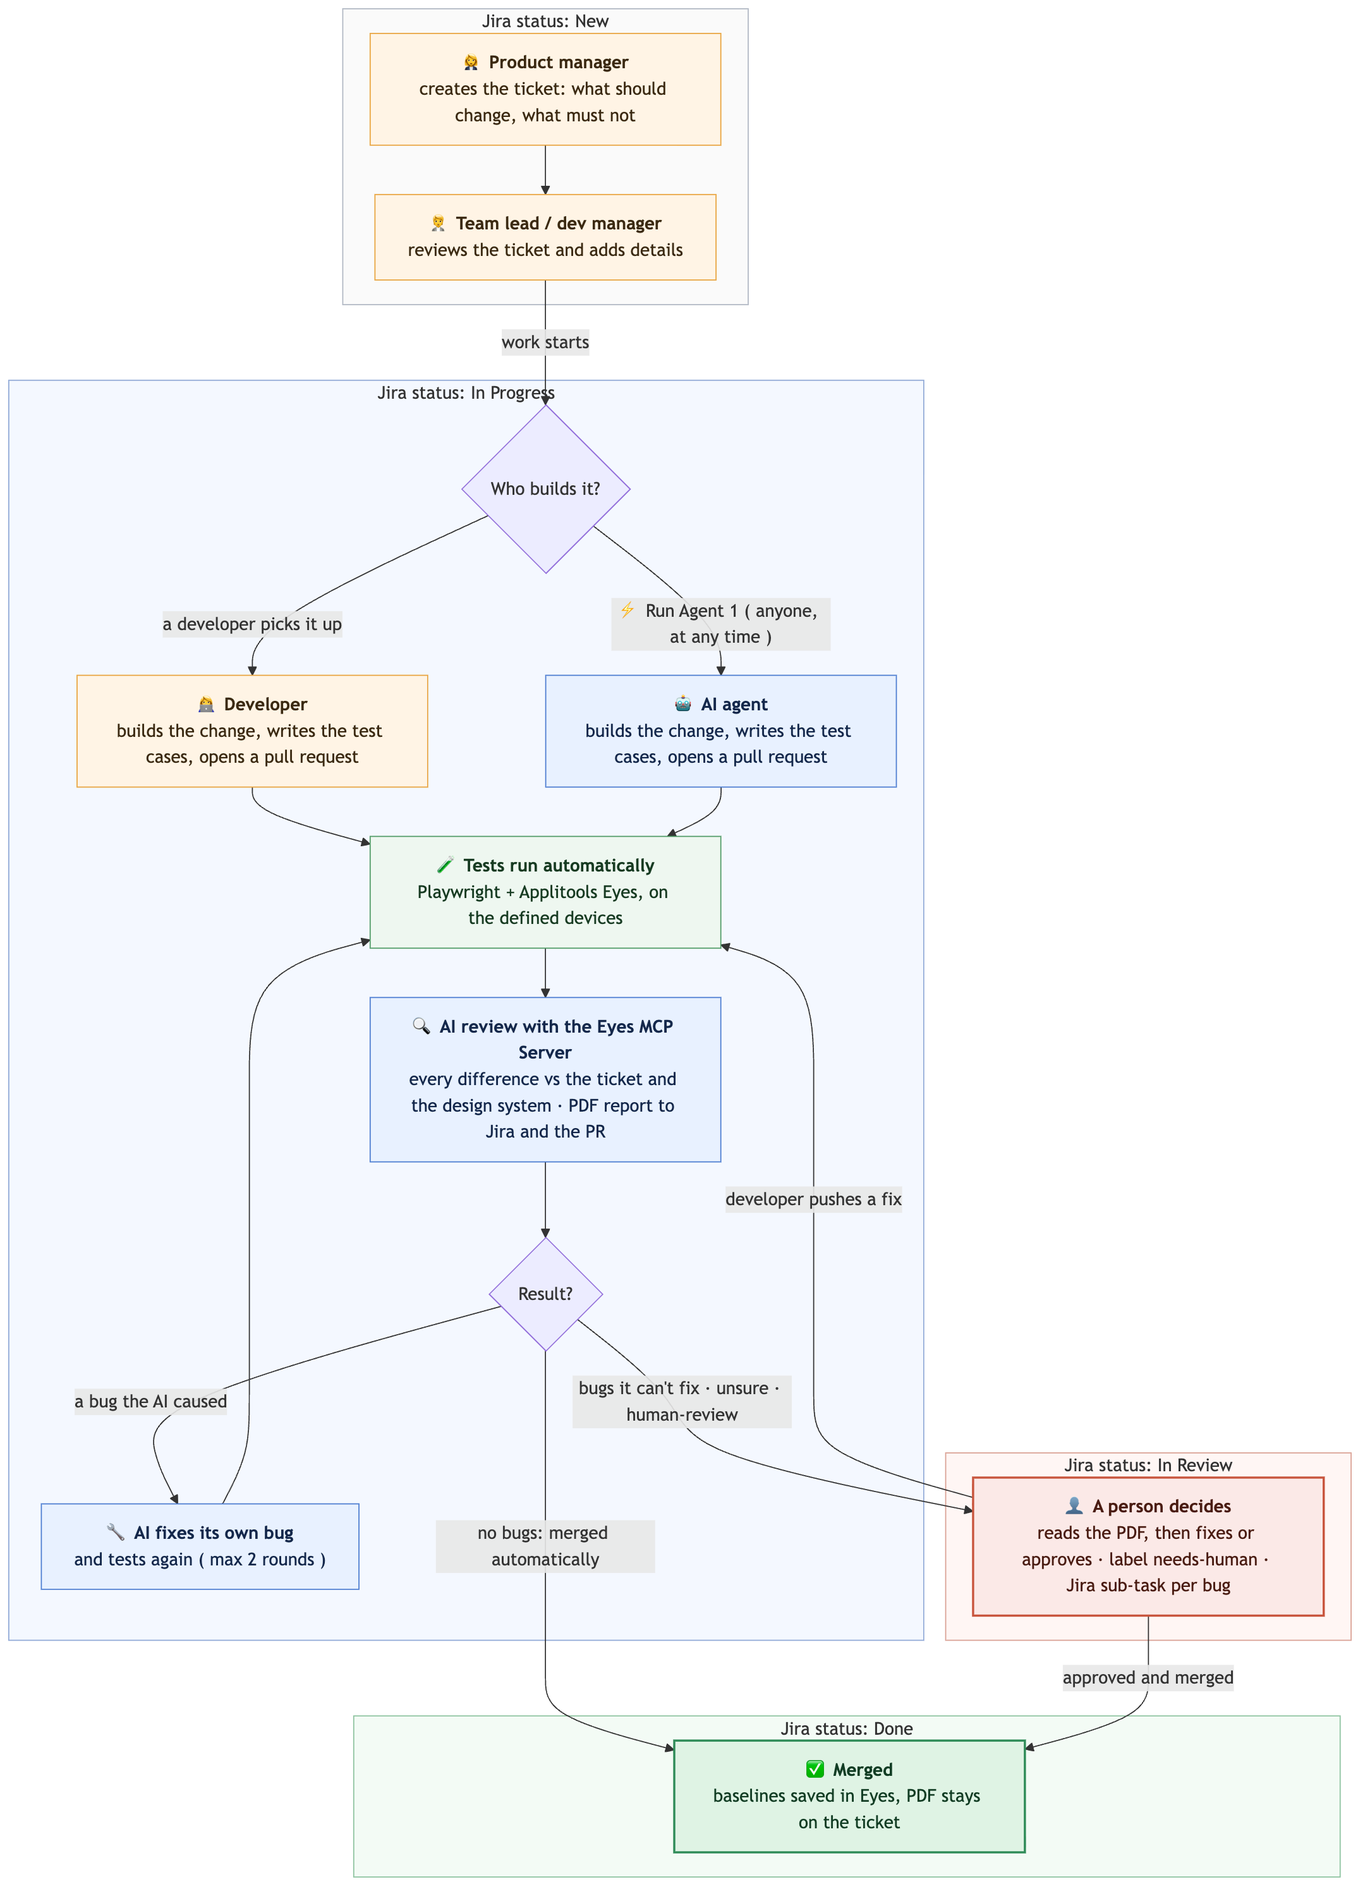
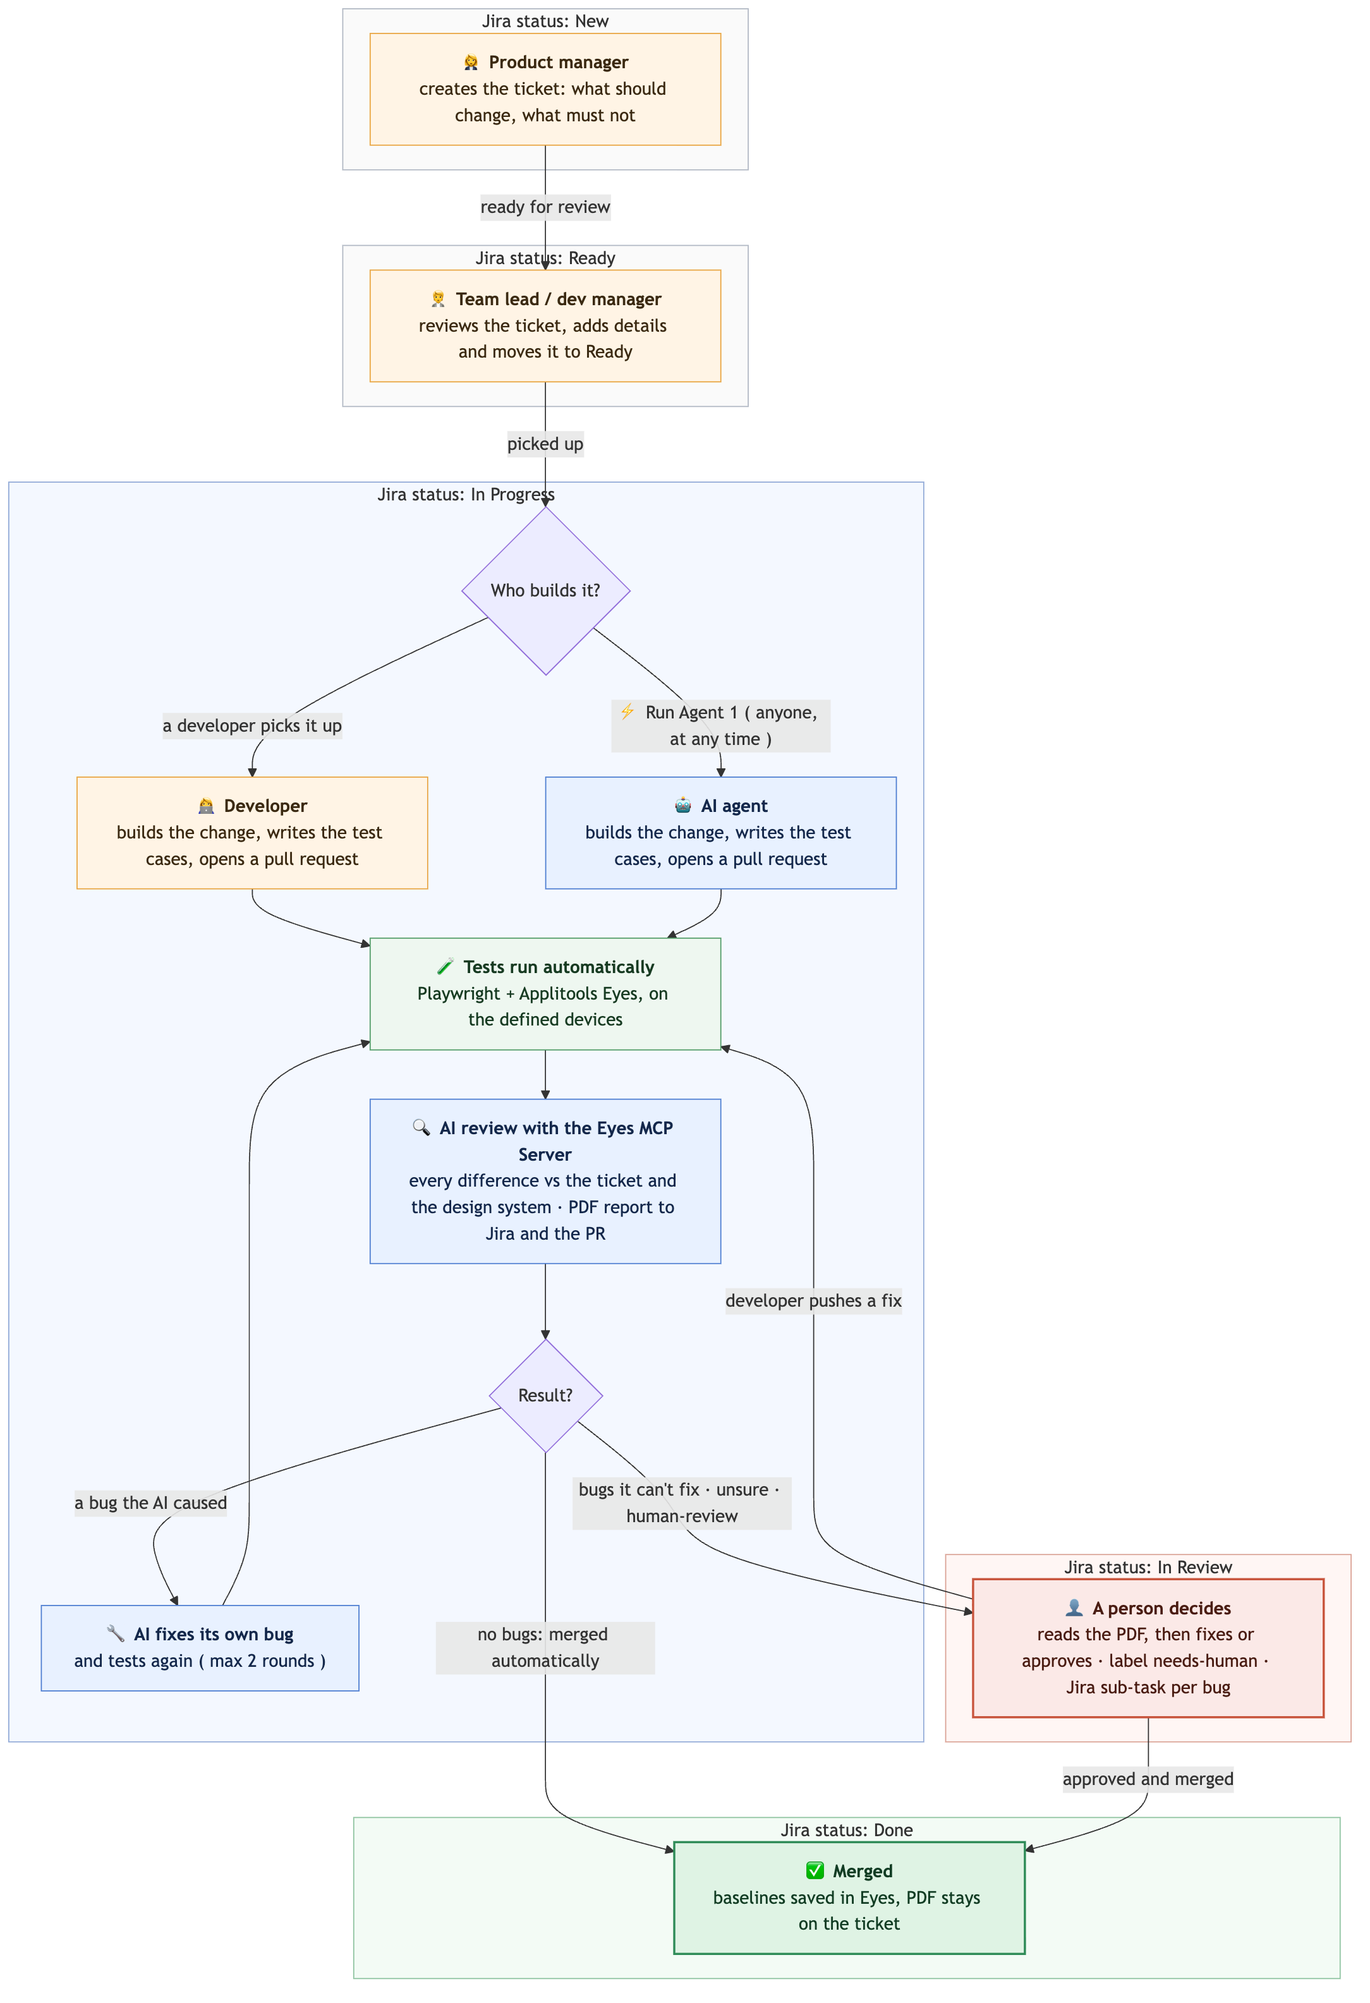
Add the Ready status: New → Ready (team lead / dev manager review) → In Progress → In Review → Done (#86)
Docs only.

diff --git a/README.md b/README.md
@@ -11,12 +11,12 @@ The goal: QA and developers no longer compare screenshots by hand. People only s
 1. Create the ticket ( Jira status: New ): the product manager creates the ticket in Jira with what should change and what must not change.
 
    <img src="docs/images/jira-create-ticket.gif" width="560" alt="Creating a ticket from the New column, adding the description and the text label">
-2. Review the ticket ( Jira status: New ): while the ticket is still New, the team lead or dev manager reviews it and adds more details. It moves to In Progress when the work starts. Optional labels: `feature`, `bug`, `hotfix`, `text`, `human-review` ( no label = feature ). To add a label: open the ticket → Details panel on the right → Labels → type the label → Enter.
+2. Review the ticket ( Jira status: Ready ): the team lead or dev manager reviews the New ticket, adds more details and moves it to Ready. Ready means the ticket is ready to be picked up. Optional labels: `feature`, `bug`, `hotfix`, `text`, `human-review` ( no label = feature ). To add a label: open the ticket → Details panel on the right → Labels → type the label → Enter.
 
    <img src="docs/images/jira-labels.gif" width="360" alt="Clicking Labels in the Jira ticket's Details panel shows the available labels">
 
    Jira only lists labels that are already used on a ticket. The first time, type the new label ( e.g. `human-review` ) and press Enter to create it; after that it appears in the list.
-3. Build the change ( Jira status: In Progress ): a developer picks it up [ or ] anyone ( dev manager, team lead, developer ) clicks ⚡ Run Agent 1 in Jira and the AI agent builds it. Run Agent 1 can be clicked at any time before Done. If a developer has already started, the AI continues on the same branch ( see "Run Agent 1 at each status" below ).
+3. Build the change ( Jira status: In Progress ): a developer picks up the Ready ticket [ or ] anyone ( dev manager, team lead, developer ) clicks ⚡ Run Agent 1 in Jira and the AI agent builds it. Run Agent 1 can be clicked at any time before Done. If a developer has already started, the AI continues on the same branch ( see "Run Agent 1 at each status" below ).
 
    | (1) A developer: Development → Create branch | (2) The AI agent: ⚡ Automation → Run Agent 1 | The AI agent at work in GitHub Actions |
    |---|---|---|
@@ -35,26 +35,27 @@ The goal: QA and developers no longer compare screenshots by hand. People only s
    - No bugs found ( Jira status: Done ): the change is merged automatically and the baselines in Eyes are saved.
    - Bugs it cannot fix, unclear changes, or the `human-review` label ( Jira status: In Review ): the ticket gets the label `needs-human` and is assigned to the person who created it. A person reads the PDF and fixes or approves. When the developer pushes a fix, the AI reviews it again.
 
-   Note: In Review means the work is waiting for a person's decision. It is not used for reviewing the ticket itself ( that happens while the ticket is New ).
+   Note: In Review means the work is waiting for a person's decision. It is not used for reviewing the ticket itself ( that happens between New and Ready ).
 
 ## Jira status: who is involved when
 
-The Jira ticket moves through four statuses: New → In Progress → In Review → Done. Anyone ( dev manager, team lead, developer ) can involve the AI agent at any time before Done by clicking ⚡ Automation → Run Agent 1 on the ticket. If a developer has already started, the AI continues on the same branch.
+The Jira ticket moves through five statuses: New → Ready → In Progress → In Review → Done. Anyone ( dev manager, team lead, developer ) can involve the AI agent at any time before Done by clicking ⚡ Automation → Run Agent 1 on the ticket. If a developer has already started, the AI continues on the same branch.
 
 | Jira status | Who | What happens | Screenshot |
 |---|---|---|---|
-| New | Product manager, then team lead or dev manager | The product manager creates the ticket with what should change and what must not change. The team lead or dev manager reviews it and adds more details. | <img src="docs/images/status-1-new.png" width="260" alt="Jira ticket in New"> |
+| New | Product manager | Creates the ticket with what should change and what must not change. | <img src="docs/images/status-1-new.png" width="260" alt="Jira ticket in New"> |
+| Ready | Team lead or dev manager | Reviews the ticket, adds more details and moves it to Ready. The ticket is ready to be picked up by a developer or the AI agent. | <img src="docs/images/status-2-ready.png" width="260" alt="Jira ticket in Ready"> |
 | In Progress | Developer [ or ] AI agent | (1) Developer: moves the ticket to In Progress, builds the change, writes the test cases and opens a pull request. The AI then reviews the pull request. (2) AI agent: someone clicks Run Agent 1, the ticket moves to In Progress automatically, and the AI builds the change, writes and runs the test cases, reviews the results with the Eyes MCP Server and fixes its own bugs. | <img src="docs/images/status-3-in-progress.png" width="260" alt="Jira ticket in In Progress"> |
 | In Review | A person ( developer, team lead or dev manager ) | Only when a person needs to decide: bugs the AI could not fix, unclear changes, failed functional checks, or the `human-review` label. The ticket gets the label `needs-human`, is assigned to the person who created it, and has the PDF report attached. The developer fixes and pushes, and the AI reviews again. | <img src="docs/images/status-4-in-review.png" width="260" alt="Jira ticket in In Review"> |
 | Done | Pipeline ( automatic ) | The pull request is merged and the baselines in Eyes are updated. The PDF report stays attached to the ticket. | <img src="docs/images/status-5-done.png" width="260" alt="Jira ticket in Done"> |
 
 *Who is involved, in order*
 
-- AI agent path: product manager and team lead or dev manager ( New ) → anyone clicks Run Agent 1 → AI agent ( In Progress ) → a person only if needed ( In Review ) → Done.
-- Developer path: product manager and team lead or dev manager ( New ) → developer ( In Progress ) → AI review on the pull request → developer again only if the AI found bugs ( In Review ) → AI review again → Done.
+- AI agent path: product manager ( New ) → team lead or dev manager ( Ready ) → anyone clicks Run Agent 1 → AI agent ( In Progress ) → a person only if needed ( In Review ) → Done.
+- Developer path: product manager ( New ) → team lead or dev manager ( Ready ) → developer ( In Progress ) → AI review on the pull request → developer again only if the AI found bugs ( In Review ) → AI review again → Done.
 
 Note:
-- The pipeline moves the ticket to In Progress ( AI path ), In Review and Done. New is the status of every new ticket.
+- The pipeline moves the ticket to In Progress ( AI path ), In Review and Done. New is the status of every new ticket; the team lead or dev manager moves it to Ready.
 - If your Jira uses other names ( e.g. "Doing" instead of "In Progress" ), the pipeline accepts "In Progress" or "Doing" by default. You can set your own names with the repository variables `JIRA_STATUS_IN_PROGRESS`, `JIRA_STATUS_IN_REVIEW` and `JIRA_STATUS_DONE`.
 - To move the ticket to In Progress automatically when a developer creates a branch, add a Jira Automation rule: trigger "Branch created", action "Transition work item to In Progress".
 
@@ -62,7 +63,7 @@ Note:
 
 | Jira status when clicked | What the AI agent does |
 |---|---|
-| New | Creates a new branch from `main`, builds the change, writes and runs the test cases, reviews them and opens the pull request. The ticket moves to In Progress. |
+| New / Ready | Creates a new branch from `main`, builds the change, writes and runs the test cases, reviews them and opens the pull request. The ticket moves to In Progress. |
 | In Progress ( a developer already started ) | Continues on the developer's branch: builds what is still missing according to the ticket, writes and runs the test cases, reviews everything and pushes to the same pull request. It works from the ticket and the current code. It does not know what the developer planned to do next. |
 | In Review ( the review found bugs ) | Moves the ticket back to In Progress, continues on the same branch and reviews everything again. It may fix the bugs, because it checks the ticket and the design system again, but it does not read the previous review. |
 | Done | Not useful: the branch was deleted when it was merged, so the AI starts again from `main` and finds nothing left to do. Tip: in the Jira rule, add the condition "Status is not Done". |
@@ -217,7 +218,9 @@ Comparing the implementation directly with the Figma design ( Eyes MCP Server + 
 flowchart TD
     subgraph S1["Jira status: New"]
         A["👩💼 <b>Product manager</b><br/>creates the ticket: what should change, what must not"]
-        B["🧑💼 <b>Team lead / dev manager</b><br/>reviews the ticket and adds details"]
+    end
+    subgraph S2["Jira status: Ready"]
+        B["🧑💼 <b>Team lead / dev manager</b><br/>reviews the ticket, adds details and moves it to Ready"]
     end
     subgraph S3["Jira status: In Progress"]
         C{"Who builds it?"}
@@ -235,8 +238,8 @@ flowchart TD
         K["✅ <b>Merged</b><br/>baselines saved in Eyes, PDF stays on the ticket"]
     end
 
-    A --> B
-    B -->|"work starts"| C
+    A -->|"ready for review"| B
+    B -->|"picked up"| C
     C -->|"a developer picks it up"| D
     C -->|"⚡ Run Agent 1 ( anyone, at any time )"| E
     D --> F
@@ -261,12 +264,13 @@ flowchart TD
     class K good
     class J decide
     style S1 fill:#FAFAFA,stroke:#B0B7C3
+    style S2 fill:#FAFAFA,stroke:#B0B7C3
     style S3 fill:#F4F8FF,stroke:#8FA8D6
     style S4 fill:#FFF6F4,stroke:#D9A093
     style S5 fill:#F3FBF5,stroke:#8CC29E
 ```
 
-How to read it: each grey or coloured band is a Jira status ( New → In Progress → In Review → Done ), so you can see where the ticket is and who has it. Orange = a person, blue = the AI agent, green = automatic. The same diagram as an image, for slides or a blog: [user-flow.png](docs/images/user-flow.png).
+How to read it: each grey or coloured band is a Jira status ( New → Ready → In Progress → In Review → Done ), so you can see where the ticket is and who has it. Orange = a person, blue = the AI agent, green = automatic. The same diagram as an image, for slides or a blog: [user-flow.png](docs/images/user-flow.png).
 
 ### Step 1: Connect Jira and GitHub (once)
 
@@ -339,7 +343,7 @@ A PDF is attached to the Jira ticket. It shows a summary, before and after image
 For the full step-by-step setup in your own project ( with screenshots ), see [docs/INSTALLATION.md](docs/INSTALLATION.md).
 
 1. Install **GitHub for Atlassian** in Jira and connect this repository.
-2. Jira workflow ( must do ): four statuses New → In Progress → In Review → Done, and the START arrow pointing to **New**, so every new ticket starts in New. See step 6.2 in [docs/INSTALLATION.md](docs/INSTALLATION.md).
+2. Jira workflow ( must do ): five statuses New → Ready → In Progress → In Review → Done, and the START arrow pointing to **New**, so every new ticket starts in New. See step 6.2 in [docs/INSTALLATION.md](docs/INSTALLATION.md).
 3. Jira board ( must do ): every ticket must be visible on the board. For this demo, sprints are turned off ( Space settings → Features → Sprints off ), and tickets are created from the board's New column ( + Create in the column ), because the + Create button at the top of Jira puts them in the Backlog. If your team uses sprints, add a Jira Automation rule "Work item created → Sprint = Active sprint" instead. See step 6.2b in [docs/INSTALLATION.md](docs/INSTALLATION.md).
 4. Add these repository secrets: `APPLITOOLS_API_KEY`, `APPLITOOLS_READ_KEY`, `APPLITOOLS_WRITE_KEY`, `CLAUDE_CODE_OAUTH_TOKEN` (or `ANTHROPIC_API_KEY`), `JIRA_BASE_URL`, `JIRA_EMAIL`, `JIRA_API_TOKEN`.
 5. Optional: a Jira Automation rule for the **Run Agent 1** button, calling this repo's `implement-task.yml` workflow with the ticket key.

diff --git a/docs/INSTALLATION.md b/docs/INSTALLATION.md
@@ -160,24 +160,24 @@ tickets become WIKI-1, WIKI-2, … and branch names contain that key.
 
 ![Create the Jira project](installation/images/p01-jira-create-project.png)
 
-**6.2 Statuses ( must do ).** The workflow needs four statuses: New → In Progress → In Review → Done, and every new ticket must start in New. By default Jira may start new tickets in another status ( in this sample it started them in Done ), so check it:
+**6.2 Statuses ( must do ).** The workflow needs five statuses: New → Ready → In Progress → In Review → Done, and every new ticket must start in New. By default Jira may start new tickets in another status ( in this sample it started them in Done ), so check it:
 
 1. Space settings → Work types → Task → **Edit workflow**.
-2. Check the four statuses exist: New, In Progress, In Review, Done. Add a missing one with **Add status**. Delete extra ones ( e.g. Doing, To Do ).
+2. Check the five statuses exist: New, Ready, In Progress, In Review, Done ( Ready: category To do ). Add a missing one with **Add status**. Delete extra ones ( e.g. Doing, To Do ).
 3. Check that each status has the **Any** marker ( work items can move to it from any status ). The pipeline needs this, e.g. to move a ticket from In Review back to In Progress.
 4. **The START arrow must point to New.** Click the arrow from START, and set its target status to **New** ( or drag the arrowhead onto New ).
 5. Click **Update workflow**. One workflow can cover several work types ( Task, Subtask, Epic ), shown next to "Workflow for".
 
 ![Jira workflow: the START arrow must point to New](installation/images/jira-workflow.png)
 
-In the screenshot, START points to New and every status has the Any marker: this is the correct setup.
+In the screenshot, START points to New and every status has the Any marker: this is the correct setup ( add Ready the same way, with Add status ).
 
-Board: the columns should be the same four ( Board → ⋯ → Configure board → Columns ).
+Board: the columns should be the same five ( Board → ⋯ → Configure board → Columns ).
 
 **6.2b Show every ticket on the board ( must do ).** A Scrum board only shows tickets in the active sprint, and Jira puts every new ticket in the Backlog. Choose one:
 
 (1) Turn sprints off and create tickets from the board ( used in this demo ):
-- Space settings → **Features** → **Sprints** → off. The board then shows tickets by status ( New · In Progress · In Review · Done ).
+- Space settings → **Features** → **Sprints** → off. The board then shows tickets by status ( New · Ready · In Progress · In Review · Done ).
 - Create tickets from the board: Board → **New** column → **+ Create**. The ticket appears in New straight away. The **+ Create** button at the top of Jira puts new tickets in the Backlog instead; move them with Backlog → right-click → **Move to board**.
 
 ![Jira Features: Sprints turned off](installation/images/jira-sprints-off.png)

diff --git a/docs/FLOW.md b/docs/FLOW.md
@@ -26,7 +26,9 @@ For what each folder contains, see [PROJECT_STRUCTURE.md](PROJECT_STRUCTURE.md).
 flowchart TD
     subgraph S1["Jira status: New"]
         A["👩💼 <b>Product manager</b><br/>creates the ticket: what should change, what must not"]
-        B["🧑💼 <b>Team lead / dev manager</b><br/>reviews the ticket and adds details"]
+    end
+    subgraph S2["Jira status: Ready"]
+        B["🧑💼 <b>Team lead / dev manager</b><br/>reviews the ticket, adds details and moves it to Ready"]
     end
     subgraph S3["Jira status: In Progress"]
         C{"Who builds it?"}
@@ -44,8 +46,8 @@ flowchart TD
         K["✅ <b>Merged</b><br/>baselines saved in Eyes, PDF stays on the ticket"]
     end
 
-    A --> B
-    B -->|"work starts"| C
+    A -->|"ready for review"| B
+    B -->|"picked up"| C
     C -->|"a developer picks it up"| D
     C -->|"⚡ Run Agent 1 ( anyone, at any time )"| E
     D --> F
@@ -70,12 +72,13 @@ flowchart TD
     class K good
     class J decide
     style S1 fill:#FAFAFA,stroke:#B0B7C3
+    style S2 fill:#FAFAFA,stroke:#B0B7C3
     style S3 fill:#F4F8FF,stroke:#8FA8D6
     style S4 fill:#FFF6F4,stroke:#D9A093
     style S5 fill:#F3FBF5,stroke:#8CC29E
 ```
 
-How to read it: each grey or coloured band is a Jira status ( New → In Progress → In Review → Done ), so you can see where the ticket is and who has it. Orange = a person, blue = the AI agent, green = automatic. The same diagram as an image, for slides or a blog: [user-flow.png](images/user-flow.png).
+How to read it: each grey or coloured band is a Jira status ( New → Ready → In Progress → In Review → Done ), so you can see where the ticket is and who has it. Orange = a person, blue = the AI agent, green = automatic. The same diagram as an image, for slides or a blog: [user-flow.png](images/user-flow.png).
 
 ---
 
@@ -205,7 +208,8 @@ Files:
 
 | Status | Set by | When |
 |---|---|---|
-| New | Product manager | The ticket is created; the team lead or dev manager reviews it and adds details |
+| New | Product manager | The ticket is created |
+| Ready | Team lead or dev manager | The ticket is reviewed, details are added, and it is ready to be picked up |
 | In Progress | Agent 1 ( AI path ), or the developer / a Jira Automation rule on "Branch created" ( developer path ) | The work starts. Anyone can click Run Agent 1 at any time before Done to involve the AI; on an existing branch it continues the work |
 | In Review | The pipeline | The work is waiting for a person's decision ( label `needs-human`, assigned to the person who created the ticket ). Not used for reviewing the ticket itself |
 | Done | The pipeline | The pull request is merged |
